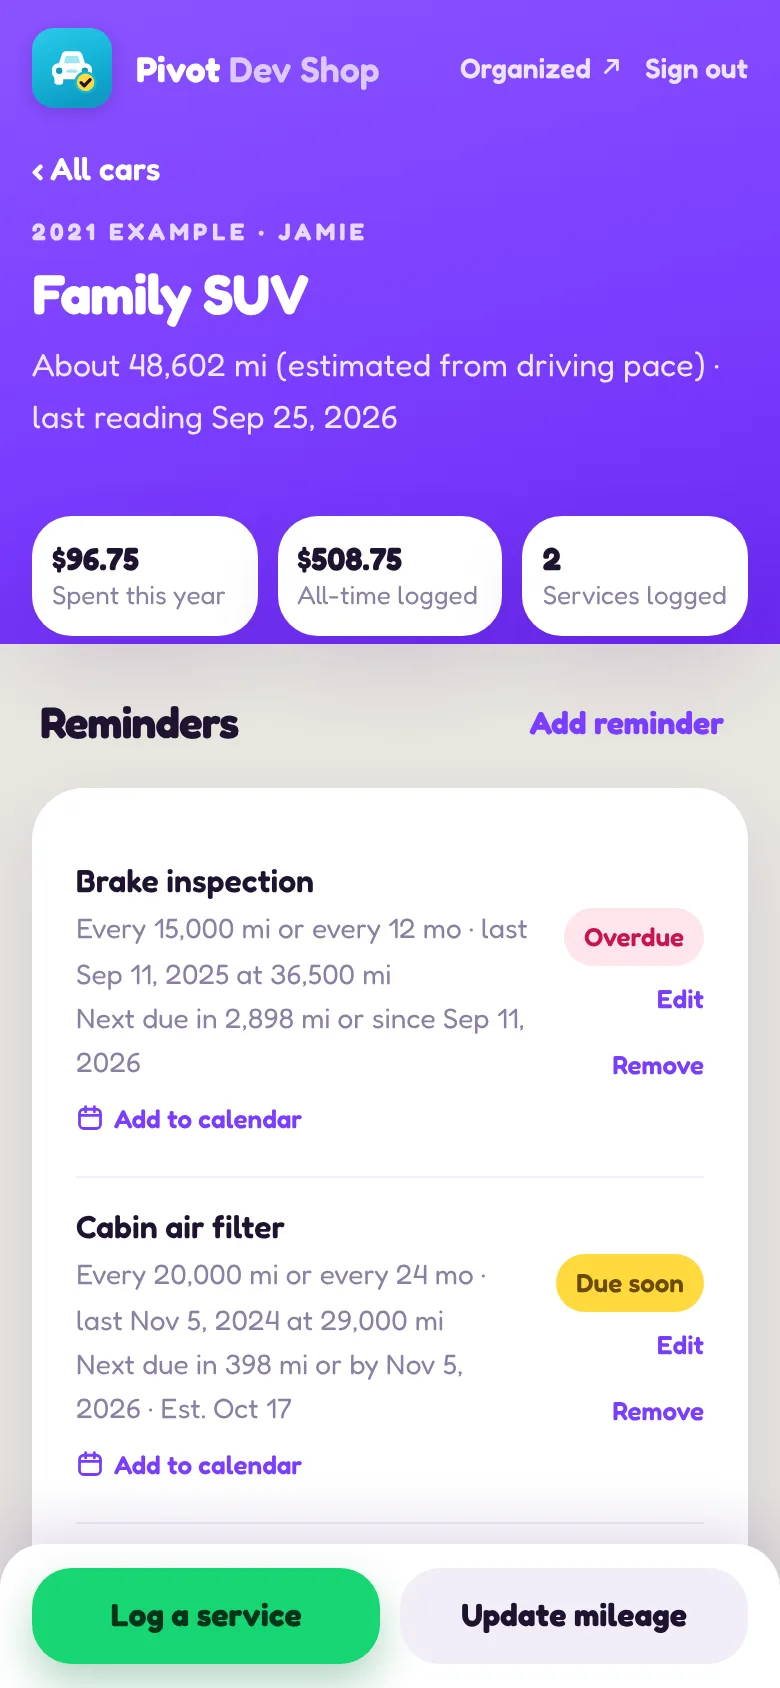
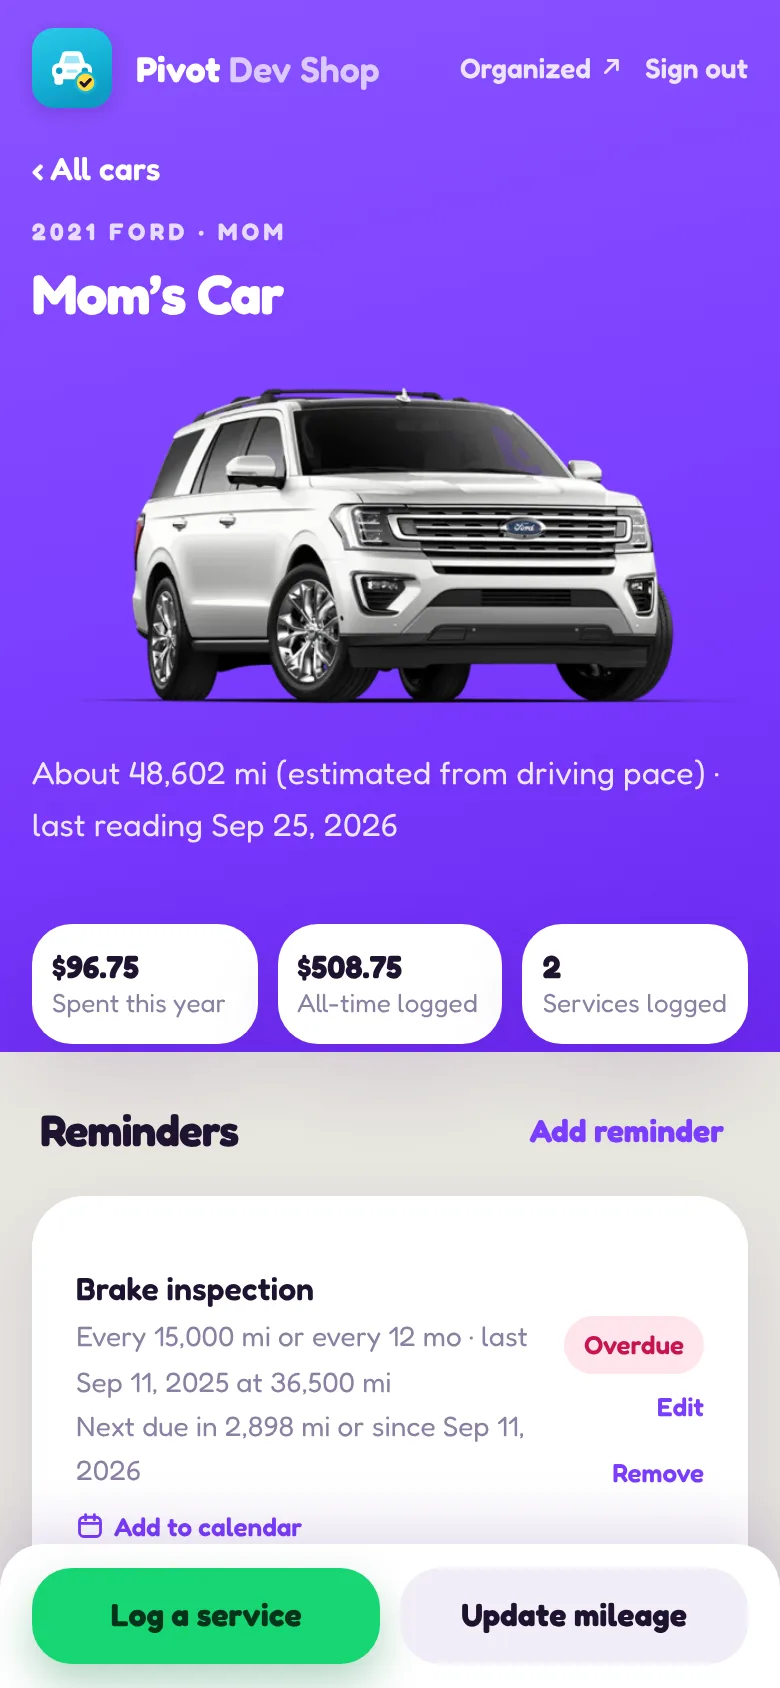
Garage page: rename example cars and show car photos
Mom's Car and Rick's Ride now carry the Expedition and blue Mach-E
images from the Garage app. Amanda's (GTI) and Mike's (Wrangler) still
show letter tiles until photos for them are added.

Claude-Session: https://claude.ai/code/session_01TSc8yuq8NuKRMECWviNMfc

diff --git a/public/garage.html b/public/garage.html
@@ -187,7 +187,7 @@
 
   <section class="narrow">
     <p class="lead">One car is easy to keep track of. Four cars, four drivers and four different service schedules is a part-time job nobody signed up for.</p>
-    <p>Our family runs four cars: a big family SUV, two electric cars and an older car that gets driven hard. Each one has its own rhythm. The SUV wants an oil change every few thousand miles; the electric cars don't need oil at all but still need tires rotated and filters changed; the older one has a recall letter sitting somewhere in a drawer.</p>
+    <p>Picture a family with four very different cars: a big Ford Expedition, an electric Mustang Mach-E, a VW GTI and a Jeep Wrangler. Each one has its own rhythm. The Expedition wants an oil change every few thousand miles; the Mach-E doesn't need oil at all but still needs its tires rotated and filters changed; the GTI has a recall letter sitting somewhere in a drawer.</p>
     <p>The information existed — in the dealer's app for some cars, in a pile of paper receipts for others, in somebody's memory for the rest. What didn't exist was <strong>one place that answered the only question that matters: what does each car need next, and when?</strong></p>
   </section>
 
@@ -221,7 +221,7 @@
     <div class="steps">
       <div class="step">
         <h3>Every car, at a glance</h3>
-        <p>Each car gets a card: current mileage, what's been spent this year and all-time, and the one thing that needs attention most. The top of the screen says it plainly — "Everything's on track", or how many things need attention.</p>
+        <p>Each car gets a card with its photo, current mileage, what's been spent this year and all-time, and the one thing that needs attention most. The top of the screen says it plainly — "Everything's on track", or how many things need attention.</p>
       </div>
       <div class="step">
         <h3>Reminders that understand "whichever comes first"</h3>
@@ -246,20 +246,20 @@
     <div class="narrow">
       <div class="kicker">What it looks like</div>
       <h2>The real app, with an example family</h2>
-      <p>These are screenshots of the actual Garage app, filled with made-up cars, drivers and receipts so none of our own information is on show.</p>
+      <p>These are screenshots of the actual Garage app, filled with an example family — Mom’s Car, Rick’s Ride, Amanda’s Runabout and Mike’s Car — and made-up mileage and receipts, so none of our own information is on show.</p>
     </div>
     <div class="shots">
       <figure class="shot phone">
-        <img src="/garage-media/home-phone.webp" alt="Garage home screen on a phone: a violet header saying there are 4 things that need attention, tiles for money spent this year and all-time, overdue and due-soon counts, and the first car card for an example Family SUV." loading="lazy" width="780" height="1688">
+        <img src="/garage-media/home-phone.webp" alt="Garage home screen on a phone: a violet header saying there are 4 things that need attention, tiles for money spent this year and all-time, overdue and due-soon counts, and the first car card, Mom’s Car, with a photo of a white Ford Expedition." loading="lazy" width="780" height="1688">
         <figcaption><strong>The home screen</strong>Spend, overdue items and what's coming up, before you've scrolled at all. The two big buttons are the two things you actually do: log a service, update the mileage.</figcaption>
       </figure>
       <figure class="shot phone">
-        <img src="/garage-media/car-phone.webp" alt="One car's page on a phone: an example Family SUV with its reminders — brake inspection overdue, cabin air filter due soon with an estimated date — each with an Add to calendar link." loading="lazy" width="780" height="1688">
+        <img src="/garage-media/car-phone.webp" alt="One car's page on a phone: Mom’s Car, a Ford Expedition, with its reminders — brake inspection overdue, cabin air filter due soon with an estimated date — each with an Add to calendar link." loading="lazy" width="780" height="1688">
         <figcaption><strong>One car's reminders</strong>Every rule, when it was last done, and when it's next due — including an estimated date worked out from how much the car is driven.</figcaption>
       </figure>
       <figure class="shot wide">
-        <img src="/garage-media/home-desktop.webp" alt="Garage on a laptop: four example cars side by side, each showing mileage, spend this year and all-time, and the most urgent reminder, above a Coming up list." loading="lazy" width="1600" height="1333">
-        <figcaption><strong>On a laptop</strong>The same app, wider: all four cars side by side, and a "Coming up" list that groups everything one car needs in the same month into a single trip to the shop.</figcaption>
+        <img src="/garage-media/home-desktop.webp" alt="Garage on a laptop: four example cars side by side — Mom’s Car and Rick’s Ride with photos of a Ford Expedition and a blue Mustang Mach-E — each showing mileage, spend this year and all-time, and the most urgent reminder, above a Coming up list." loading="lazy" width="1600" height="1333">
+        <figcaption><strong>On a laptop</strong>The same app, wider: all four cars side by side — with a photo of each, so you know which is which at a glance — and a "Coming up" list that groups everything one car needs in the same month into a single trip to the shop.</figcaption>
       </figure>
     </div>
     <div class="narrow" style="text-align:center"><span class="sample-note">Example data only · not a real family's cars</span></div>

diff --git a/CLAUDE.md b/CLAUDE.md
@@ -246,8 +246,11 @@ Both apps hold a real family's cars, receipts, bills and names, so the images in
 `public/garage-media/` and `public/organized-media/` were taken by running each
 app's own code with its Firebase calls swapped for stubs serving an invented
 household (example cars, drivers, companies, a sample bill marked as such, an
-`example.com` sign-in). No real car photos, VINs, addresses, account numbers or
-family names. Keep it that way when refreshing them: re-run the apps against fake
+`example.com` sign-in). No VINs, addresses, account numbers or real family names.
+The Garage cars are named Mom’s Car, Rick’s Ride, Amanda’s Runabout and Mike’s
+Car; the two with photos reuse the Garage app's own studio shots (white
+Expedition, blue Mach-E — `garage/public/photos/`), which are generic
+manufacturer-style images, not pictures of the family's cars. Keep it that way when refreshing them: re-run the apps against fake
 data, don't screenshot the live sites.
 
 ## Never mix literal values and a var() in the `font:` shorthand
